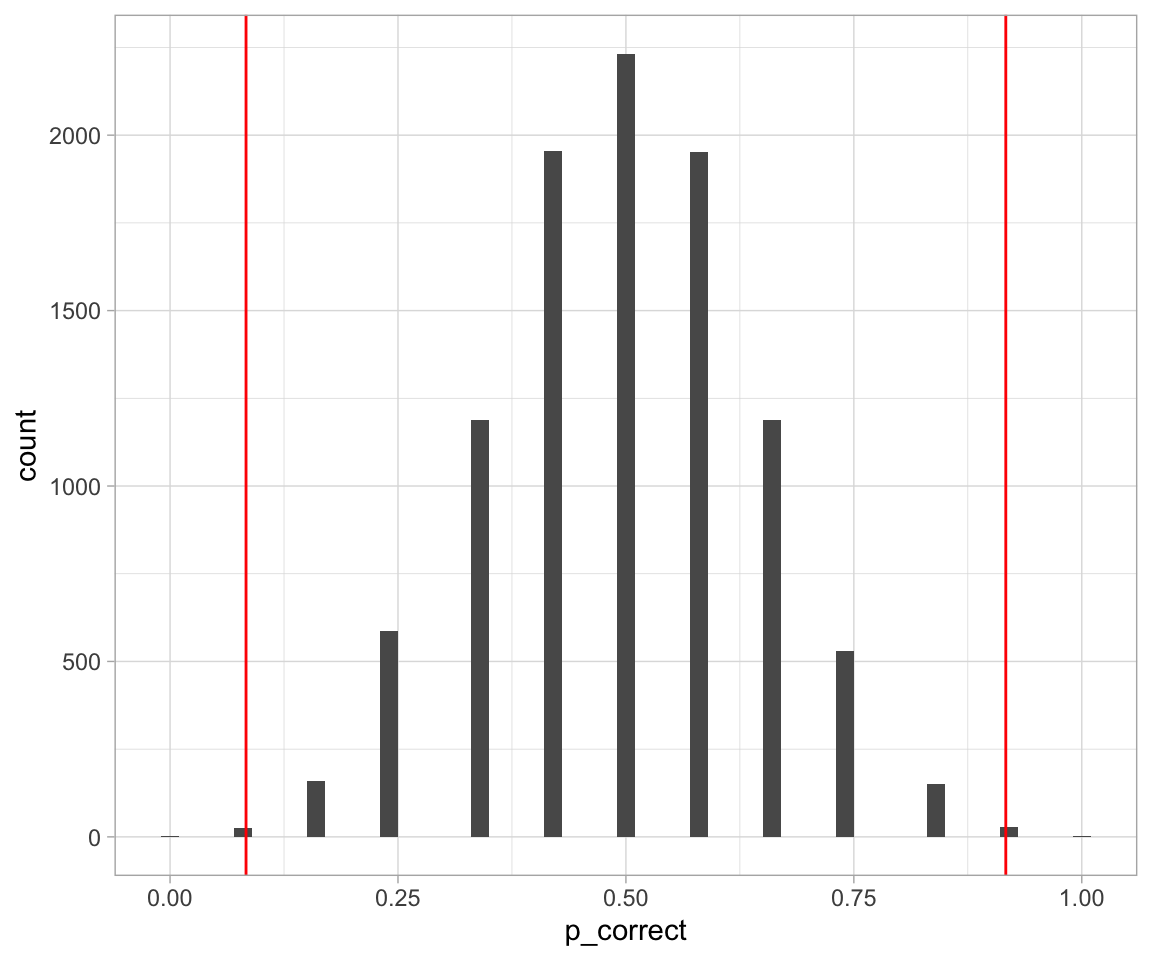
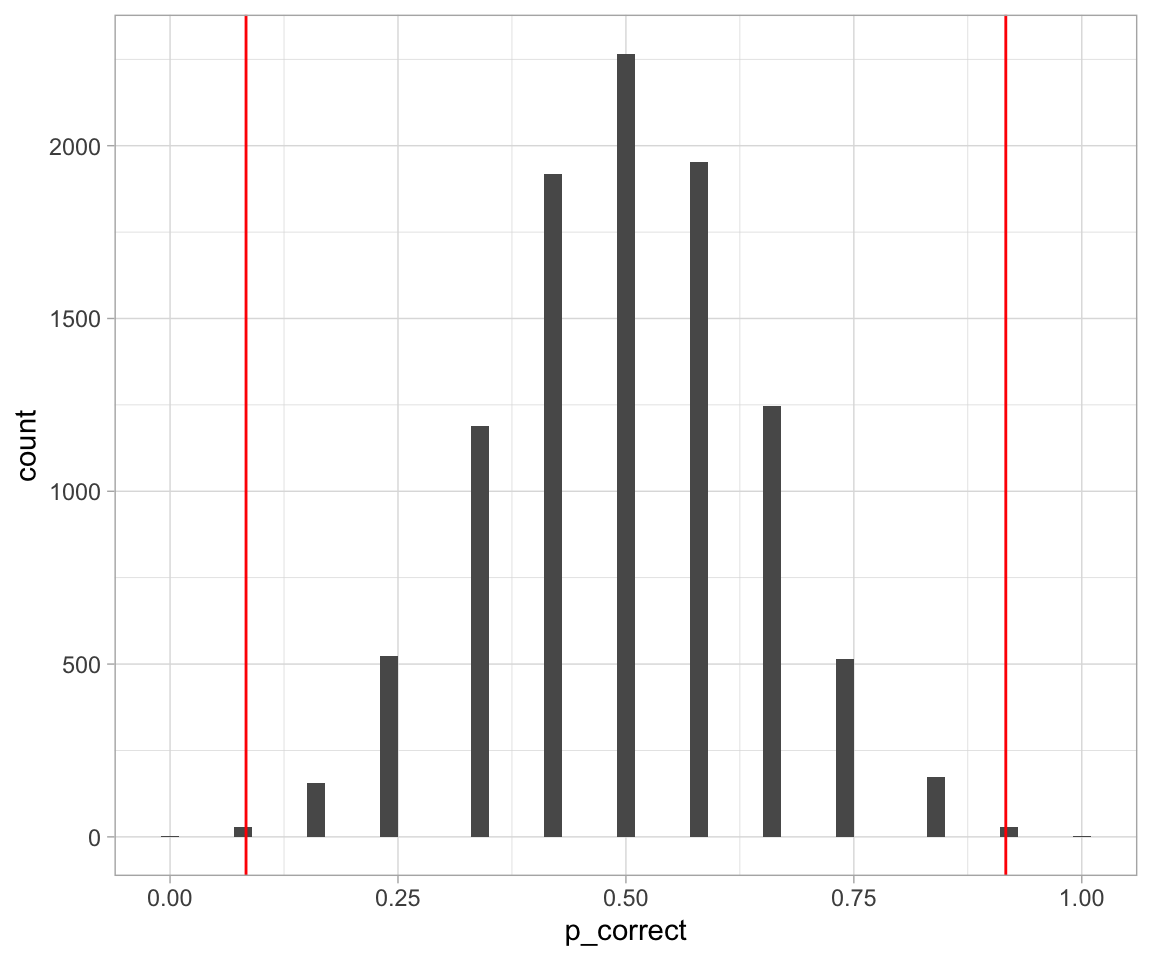
added written evauluation

diff --git a/STA130F19.html b/STA130F19.html
@@ -973,8 +973,9 @@ plot # Show the plot</code></pre>
 <p>Some people claim that they can tell the difference between Coke or Pepsi in the first sip. A researcher wanting to test the claim that people can distinguish (correctly or incorrectly) between them randomly selected 30 people. He then filled 30 plain white cups with Pepsi and asked each person to take one sip from their cup and identify the drink as Coke or Pepsi. 13 participants correctly identified the drink as Pepsi and the other 17 participants said the drink was Coke. Does this suggest that people can correctly (or incorrectly) tell a difference between the two drinks? Suppose you did a simulation analysis with 1000 simulations and the resulting P-value was 0.04.</p>
 <p>For Question 3d, what is an appropriate conclusion? Are there any limitations to this analysis?</p>
 </div>
-<div id="written-evaluation-2" class="section level3">
-<h3>Written Evaluation</h3>
+</div>
+<div id="written-evaluation-2" class="section level2">
+<h2>Written Evaluation</h2>
 <pre class="r"><code>repetitions &lt;- 10000
 simulated_stats &lt;- rep(NA, repetitions)
 n_observations &lt;- 12
@@ -1001,9 +1002,8 @@ ggplot(sim, aes(p_correct)) +
 <pre><code>## # A tibble: 1 x 1
 ##   p_value
 ##     &lt;dbl&gt;
-## 1  0.0057</code></pre>
-<p>The question will show up here when it’s time.</p>
-</div>
+## 1  0.0062</code></pre>
+<p><strong>QUESTION</strong> A local newspaper has asked you to provide a brief summary of the research you did on this Scottish woman’s amazing abilities (Question 2b)! Remember to include a sentence to state the purpose of your research, a brief explanation of your methods, your key findings, and a concluding sentence that their average reader will understand. You may also want to mention some of the limitations of your research – how confident can we be in these findings? <strong>SUBMIT ON QUERCUS</strong></p>
 </div>
 <div id="additional-resources-for-coding" class="section level2">
 <h2>Additional Resources for coding:</h2>
